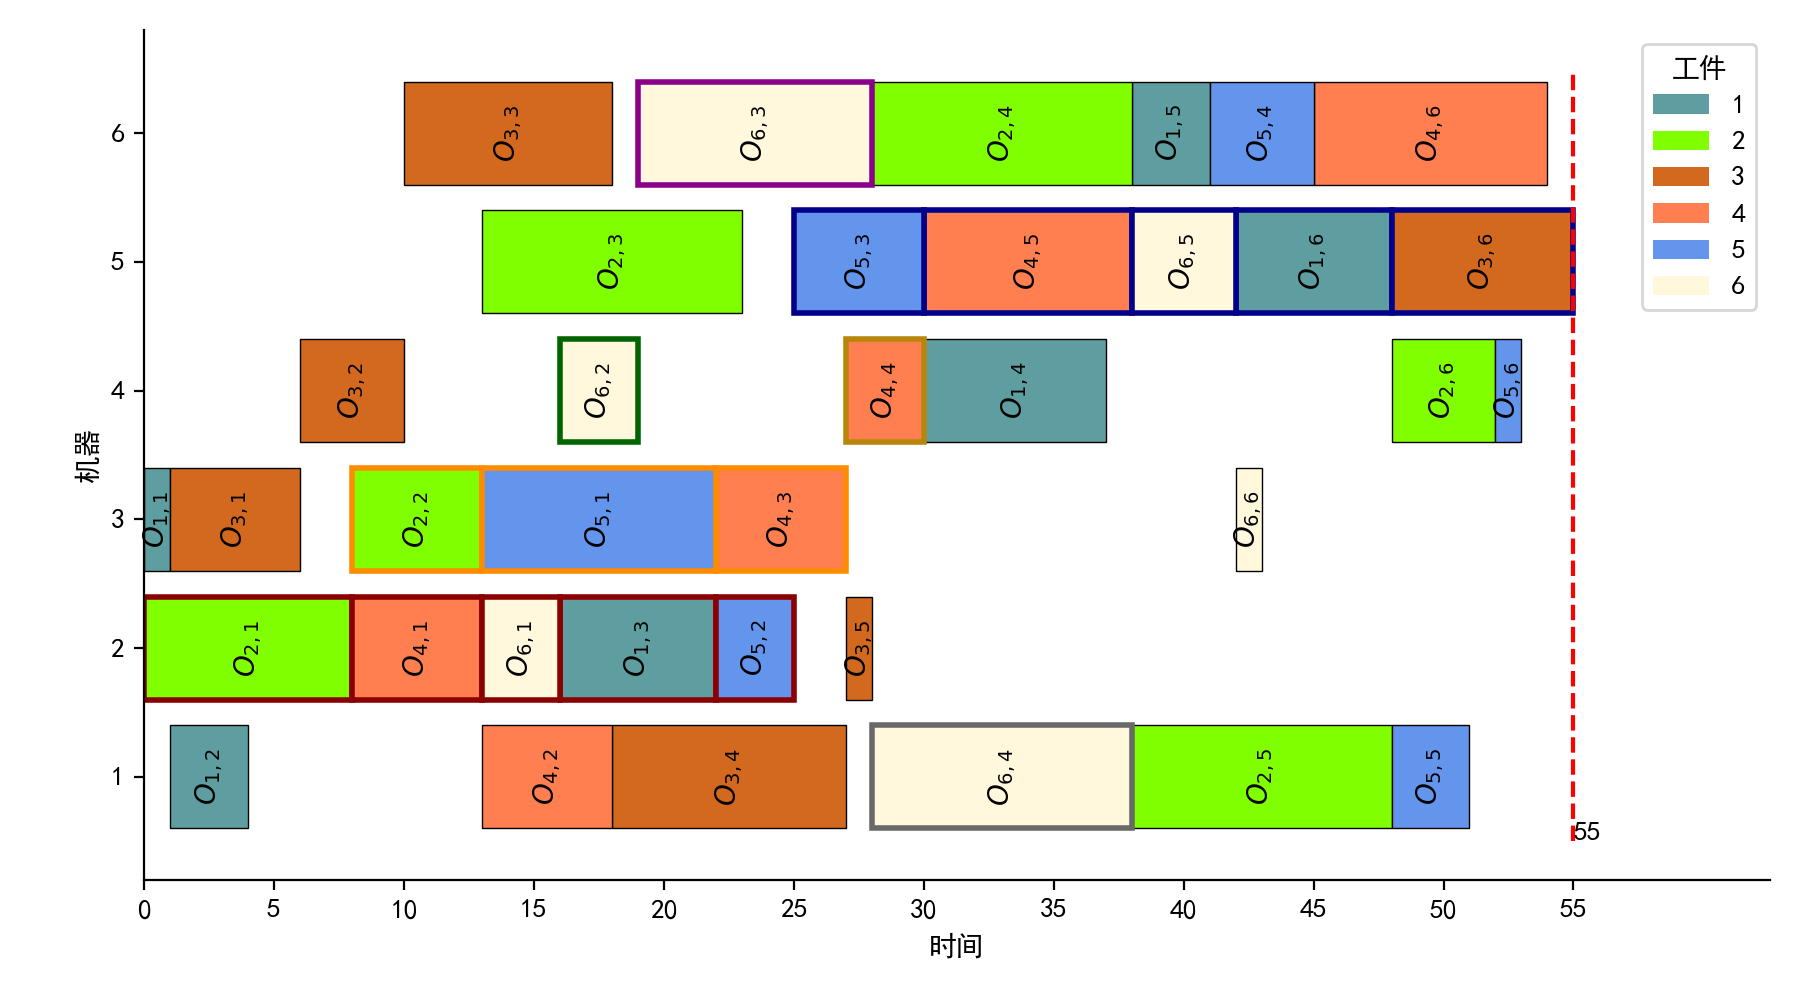
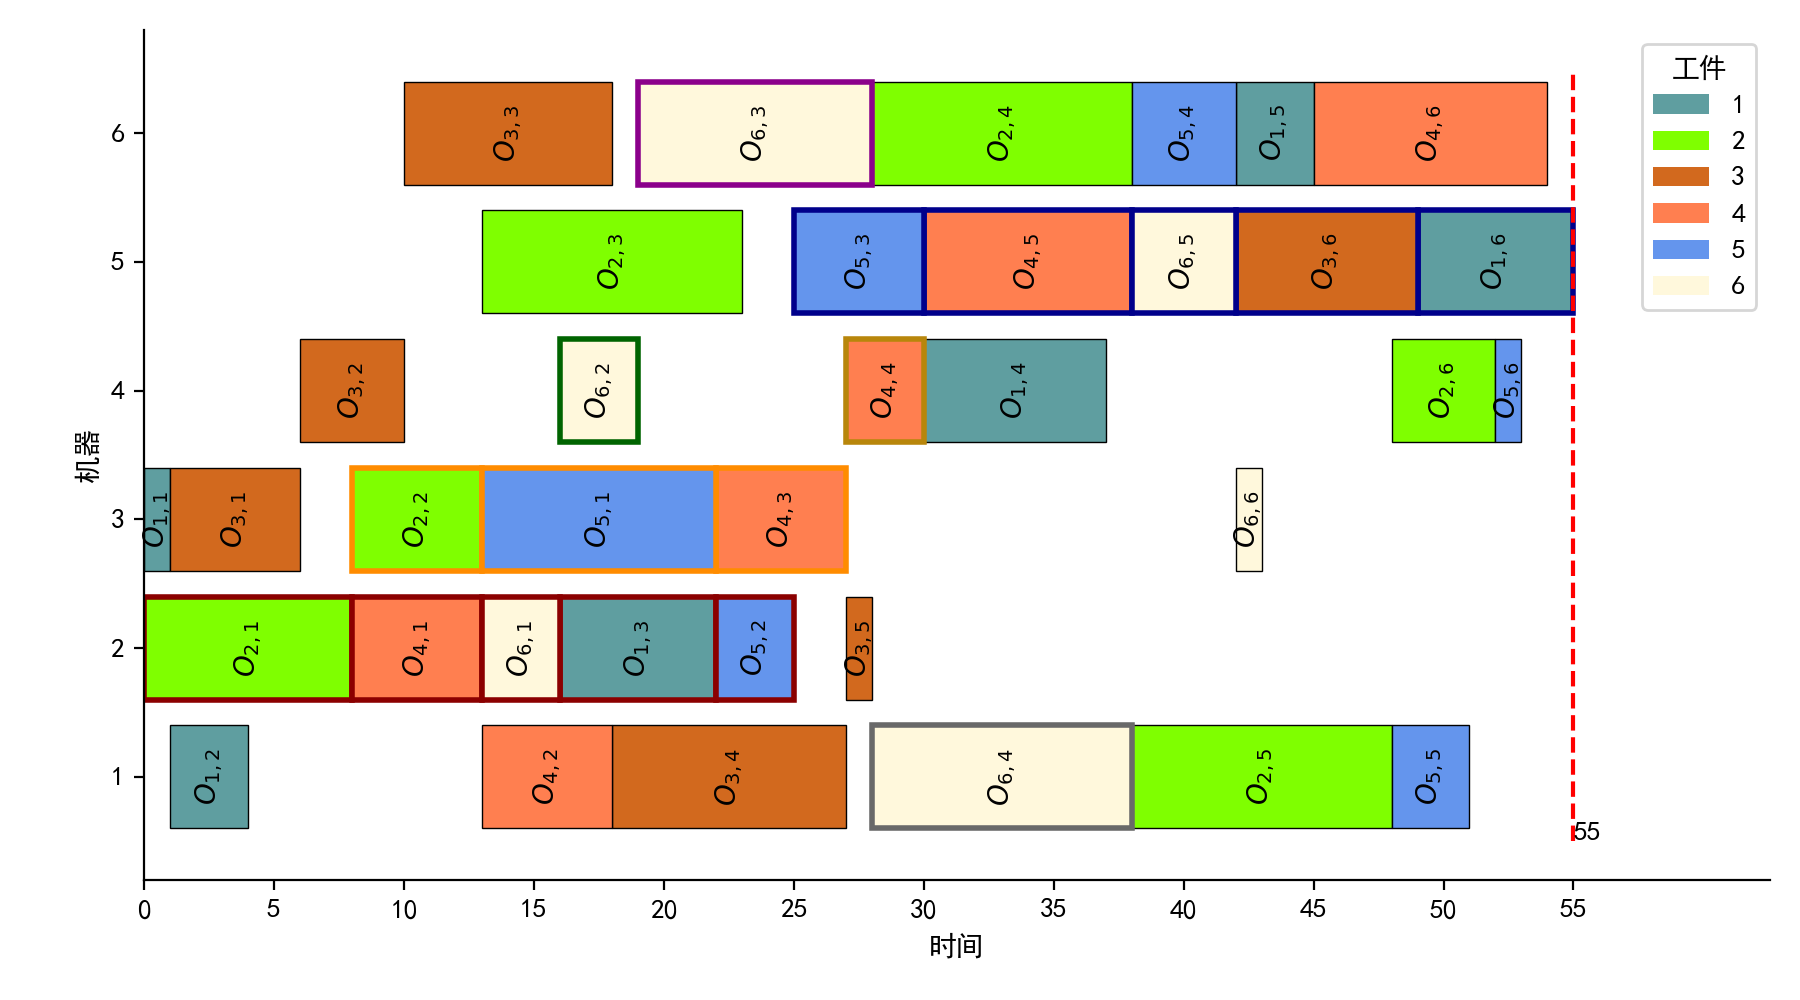
Add file via upload.

Changed region(s): [[0.6222, 0.062, 0.8711, 0.31]]

diff --git a/plot_gantt_chart.py b/plot_gantt_chart.py
@@ -6,7 +6,7 @@ from src import *
 
 """Result"""
 file_dir = "./Result/GanttChart"  # 甘特图数据文件所在目录
-file = "example.csv"  # 甘特图数据文件
+file = "ft06.csv"  # 甘特图数据文件
 file_save = "%s/%s" % (file_dir, file[:-4])  # 保存的甘特图名称
 """NSGA_JSP"""
 # file_dir = "./NSGA_JSP/ft06"  # 甘特图数据文件所在目录
